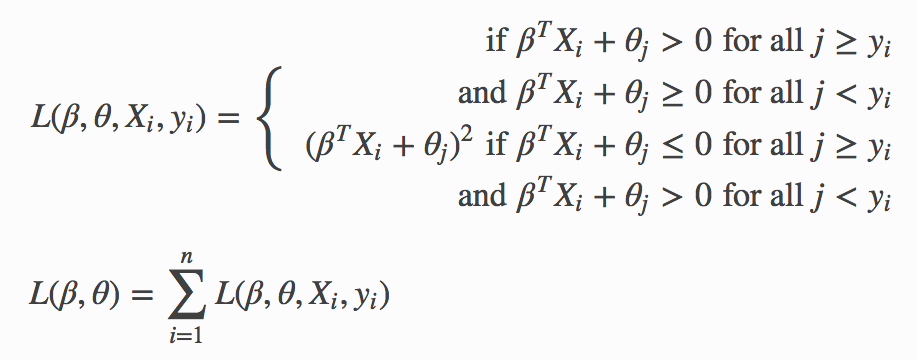
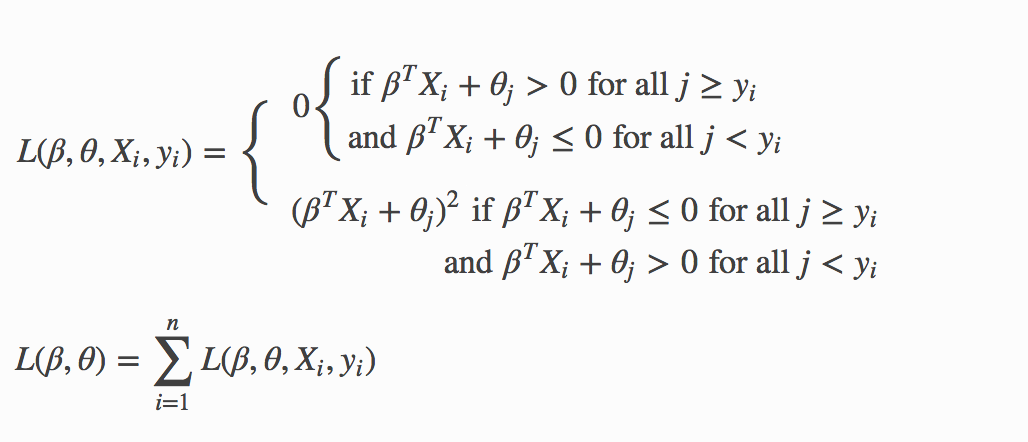
updates after review

Changed region(s): [[0.0, 0.0611, 0.976, 0.6417], [0.0, 0.7028, 0.427, 0.9472]]

diff --git a/h2o-docs/src/booklets/v2_2015/source/GLMBooklet.tex b/h2o-docs/src/booklets/v2_2015/source/GLMBooklet.tex
@@ -376,11 +376,11 @@ function. Change the regression by changing the family to binomial.
 
 A logistic ordinal regression model is a generalized linear model that predicts ordinal variables - variables that are discreet, as in classification, but that can be ordered, as in regression.
 
-Let $X_i\in\rm \Bbb I \!\Bbb R^{p}$, $y$ can belong to any of the $K$ classes. In logistic ordinal regression, we model the cumulative distribution function (CDF) of $y$ belongs to class $j$, given $X_i$ as the logistic function:
+Let $X_i\in\rm \Bbb I \!\Bbb R^{p}$, $y$ can belong to any of the $K$ classes. In logistic ordinal regression, we model the cumulative distribution function (CDF) of $y$ belonging to class $j$, given $X_i$ as the logistic function:
 
 $$P(y \leq j|X_i) = \phi(\beta^{T}X_i + \theta_j) = \dfrac {1} {1+ \text{exp} (-\beta^{T}X_i - \theta_j)}$$
 
-Compared to multiclass logistic regression, all classes share the same $\beta$ vector. This adds the constraint that the hyperplanes that separate the different classes are parallel for all classes. To decide which class will $X_i$ be predicted, we use the thresholds vector $\theta$. If there are $K$ different classes, then $\theta$ is a non-decreasing vector (that is, $\theta_0 \leq \theta_1 \leq \ldots \theta_{K-2})$ of size $K-1$. We then assign $X_i$ to the class $j$ if $\beta^{T}X_i + \theta_j \geq 0$ for the lowest class label $j$.
+Compared to multiclass logistic regression, all classes share the same $\beta$ vector. This adds the constraint that the hyperplanes that separate the different classes are parallel for all classes. To decide which class will $X_i$ be predicted, we use the thresholds vector $\theta$. If there are $K$ different classes, then $\theta$ is a non-decreasing vector (that is, $\theta_0 \leq \theta_1 \leq \ldots \theta_{K-2})$ of size $K-1$. We then assign $X_i$ to the class $j$ if $\beta^{T}X_i + \theta_j > 0$ for the lowest class label $j$.
 
 We choose a logistic function to model the probability $P(y \leq j|X_i)$ but other choices are possible. 
 
@@ -388,13 +388,11 @@ To determine the values of $\beta$ and $\theta$, we maximize the log-likelihood 
 
 $$L(\beta,\theta) = \sum_{i=1}^{n} \text{log} \big( \phi (\beta^{T}X_i + \theta_{y_i}) - \phi(\beta^{T}X_i + \theta_{{y_i}-1}) \big)$$
 
+Conventional ordinal regression uses a likelihood function to adjust the model parameters. However, during prediction, GLM looks at the log CDF odds. 
 
+$$log \frac {P(y_i \leq j|X_i)} {1 - P(y_i \leq j|X_i)} = \beta^{T}X_i + \theta_{y_j}$$
 
-Conventional ordinal regression uses a likelihood function to adjust the system parameters. However, during prediction, GLM looks at the log CDF odds. 
-
-$$\big( log \frac {P(y_i \leq j|X_i)} {1 - P(y_i \leq j|X_i)} = \beta^{T}X_i + \theta_{y_j} \big)$$
-
-As a result, there is a small disconnect between the two. To remedy this, we have implemented a new algorithm to set and adjust the system parameters. 
+As a result, there is a small disconnect between the two. To remedy this, we have implemented a new algorithm to set and adjust the model parameters. 
 
 Recall that during prediction, a dataset row represented by $X_i$ will be set to class $j$ if 
 
@@ -402,7 +400,7 @@ $$log \frac {P(y_i \leq j|X_i)} {1 - P(y_i \leq j|X_i)} = \beta^{T}X_i + \theta_
 
 and
 
-$$beta^{T}X_i + \theta_{j_i} \leq 0 \; \text{for} \; j' < j$$
+$$\beta^{T}X_i + \theta_{j_i} \leq 0 \; \text{for} \; j' < j$$
 
 Hence, for each training data sample $(X_{i}, y_i)$, we adjust the model parameters $\beta, \theta_0, \theta_1, \ldots, \theta_{K-2}$ by considering the thresholds $`\beta^{T}X_i + \theta_j$ directly. The following loss function is used to adjust the model parameters:
 
@@ -411,7 +409,7 @@ Hence, for each training data sample $(X_{i}, y_i)$, we adjust the model paramet
 \includegraphics[scale=0.5]{images/ordinal_equation.png}
 \end{figure}
 
-Again, you can add the Regularization Penalty to the loss function. The model parameters are adjusted by minimizing the loss function using gradient descent. When the Ordinal family is specified, the \texttt{solver} parameter will automatically be set to \texttt{GRADIENT\_DESCENT\_LH}. To adjust the model parameters using the loss function, you can set the solver parameter to \texttt{GRADIENT\_DESCENT\_SQERR}. 
+Again, you can add the Regularization Penalty to the loss function. The model parameters are adjusted by minimizing the loss function using gradient descent. When the Ordinal family is specified, the \texttt{solver} parameter will automatically be set to \texttt{GRADIENT\_DESCENT\_LH} and use the log-likelihood function. To adjust the model parameters using the loss function, you can set the solver parameter to \texttt{GRADIENT\_DESCENT\_SQERR}. 
 
 Because only first-order methods are used in adjusting the model parameters, use Grid Search to choose the best combination of the \texttt{obj\_reg}, \texttt{alpha}, and \texttt{lambda} parameters.
 
@@ -701,7 +699,7 @@ Coordinate descent can be implemented with naive or covariance updates as explai
 
 \textbf{Note}: The coordinate descent implementations are experimental and their performance characteristics are still being evaluated. 
 
-For Ordinal regression problems, H2O provides options for Gradient Descent. Gradient Descent is a first-order iterative optimization algorithm for finding the minimum of a function. In H2O's GLM, conventional ordinal regression uses a likelihood function to adjust the system parameters. The model parameters are adjusted by minimizing the loss function using gradient descent. When the Ordinal family is specified, the solver parameter will automatically be set to GRADIENT\_DESCENT\_LH. To adjust the model parameters using the loss function, you can set the \texttt{solver} parameter to GRADIENT\_DESCENT\_SQERR.
+For Ordinal regression problems, H2O provides options for Gradient Descent. Gradient Descent is a first-order iterative optimization algorithm for finding the minimum of a function. In H2O's GLM, conventional ordinal regression uses a likelihood function to adjust the model parameters. The model parameters are adjusted by maximizing the log-likelihood function using gradient descent. When the Ordinal family is specified, the solver parameter will automatically be set to GRADIENT\_DESCENT\_LH. To adjust the model parameters using the loss function, you can set the \texttt{solver} parameter to GRADIENT\_DESCENT\_SQERR.
 
 \subsubsection{Stopping Criteria}
 
@@ -712,7 +710,6 @@ Models built at the beginning of the lambda search have higher lambda values, co
 Models built at the end of the lambda search have
 lower lambda values, incorporate more predictors, and take a longer time to calculate the model. Set the \texttt{nlambdas} parameter for a lambda search to specify the number of models attempted across the search.
 
-\newpage
 \waterExampleInR
 \lstinputlisting[style=R]{GLM_Vignette_code_examples/glm_stopping_criteria.R}
 
@@ -721,7 +718,7 @@ lower lambda values, incorporate more predictors, and take a longer time to calc
 
 %For performance reasons, we recommend not using any  $\ell_1$ penalty when using the L-BFGS solver, since
 %model building can be slower. It is often better to run lambda search with the IRLSM solver instead.
-\newpage
+
 \subsection{Advanced Features}
 
 H2O's GLM has several advanced features to help build better models.
@@ -863,7 +860,7 @@ The following sections represent the output produced by logistic regression (i.e
 \newpage
 \waterExampleInPython
 \lstinputlisting[style=python]{GLM_Vignette_code_examples/glm_model_output_10.py}
-\newpage
+
 \begin{lstlisting}[style=output]
 Model Details:
 ==============
@@ -1024,7 +1021,7 @@ Fetch the confusion matrix directly using the following accessor function:
 \waterExampleInR
 \lstinputlisting[style=R]{GLM_Vignette_code_examples/glm_confusion_matrix.R}
 
-\newpage
+
 \waterExampleInPython
 \lstinputlisting[style=python]{GLM_Vignette_code_examples/glm_confusion_matrix.py}
 
@@ -1064,16 +1061,16 @@ In addition to predictions, you can view metrics such as area under curve (AUC) 
 
 \lstinputlisting[style=R]{GLM_Vignette_code_examples/glm_binomial_predictions_with_response.R}
 
-\newpage
+
 \waterExampleInPython
 \lstinputlisting[style=python]{GLM_Vignette_code_examples/glm_binomial_predictions_with_response.py}
 
+\newpage
 Here is an example of making predictions on new data:
 
 \waterExampleInR
 \lstinputlisting[style=R]{GLM_Vignette_code_examples/glm_binomial_predictions_without_response.R}
 
-\newpage
 \waterExampleInPython
 \lstinputlisting[style=python]{GLM_Vignette_code_examples/glm_binomial_predictions_without_response.py}
 \begin{lstlisting}[style=output]
@@ -1119,6 +1116,7 @@ For more information on how to use an H2O POJO, refer to the \textbf{POJO Quick 
 
 \waterExampleInR
 \lstinputlisting[style=R]{GLM_Vignette_code_examples/glm_download_pojo.R}
+\newpage
 \waterExampleInPython
 \lstinputlisting[style=Python]{GLM_Vignette_code_examples/glm_download_pojo.py}
 
@@ -1140,6 +1138,7 @@ Here are a few rules of thumb to follow:
 \item When using the IRLSM solver, larger nodes can help the ADMM (Cholesky decomposition) run faster
 \end{itemize}
 
+\newpage
 \subsection{Verifying Model Results}
 
 To determine the accuracy of your model, use the following guidelines: 
@@ -1147,7 +1146,6 @@ To determine the accuracy of your model, use the following guidelines:
 \begin{itemize}
 \item Look for conspicuously different cross-validation results between folds:
 
-\newpage
 \waterExampleInR
 \lstinputlisting[style=R]{GLM_Vignette_code_examples/glm_compare_cross_validation_folds.R}
 
@@ -1304,7 +1302,7 @@ H2O supports binomial models only; any extra levels in the test response will ge
 \item \texttt{objective\_epsilon}: Specify a threshold for convergence. If the objective value is less than this threshold, the model is converged.
 \item \texttt{beta\_epsilon}: A non-negative number specifying the magnitude of the maximum difference between the coefficient estimates from successive iterations. Defines the convergence criterion. 
 \item \texttt{gradient\_epsilon}: (For L-BFGS only) Specify a threshold for convergence. If the objective value (using the L-infinity norm) is less than this threshold, the model is converged.
-\item \texttt{solver}: A character string specifying the solver used. \texttt{IRLSM} supports more features. \texttt{L\_BFGS} scales better for datasets with many columns. \texttt{COORDINATE\_DESCENT} is \texttt{IRLSM} with the covariance updates version of cyclical coordinate descent in the innermost loop. \texttt{COORDINATE\_DESCENT\_NAIVE} is \texttt{IRLSM} with the naive updates version of cyclical coordinate descent in the innermost loop. \texttt{COORDINATE\_DESCENT\_NAIVE} and \texttt{COORDINATE\_DESCENT} are currently experimental. \texttt{GRADIENT\_DESCENT\_LH} and \texttt{GRADIENT\_DESCENT\_SQERR} can only be used with the Ordinal family.
+\item \texttt{solver}: A character string specifying the solver used. \texttt{IRLSM} supports more features. \texttt{L\_BFGS} scales better for datasets with many columns. \texttt{COORDINATE\_DESCENT} is \texttt{IRLSM} with the covariance updates version of cyclical coordinate descent in the innermost loop. \\ \texttt{COORDINATE\_DESCENT\_NAIVE} is \texttt{IRLSM} with the naive updates version of cyclical coordinate descent in the innermost loop. \\\texttt{COORDINATE\_DESCENT\_NAIVE} and \texttt{COORDINATE\_DESCENT} are currently experimental. \texttt{GRADIENT\_DESCENT\_LH} and \\\texttt{GRADIENT\_DESCENT\_SQERR} can only be used with the Ordinal family.
 \item \texttt{standardize}: A logical value that indicates whether the numeric predictors should be standardized to have a mean of 0 and a variance of 1 prior to model training. 
 \item \texttt{family}: A description of the error distribution and corresponding link function to be used in the model. The following options are supported: \texttt{gaussian}, \texttt{binomial}, \texttt{gamma}, \texttt{ordinal}, \texttt{multinomial}, \texttt{poisson}, \texttt{tweedie,} or \texttt{quasibinomial}. When a model is specified as Tweedie, users must also specify the appropriate Tweedie power. No default. %%need to specify `tweedie_variance_power` and `tweedie_link_power`??
 \item \texttt{link}: The link function relates the linear predictor to the distribution function. The default is the canonical link for the specified family. The full list of supported links for each family: 
